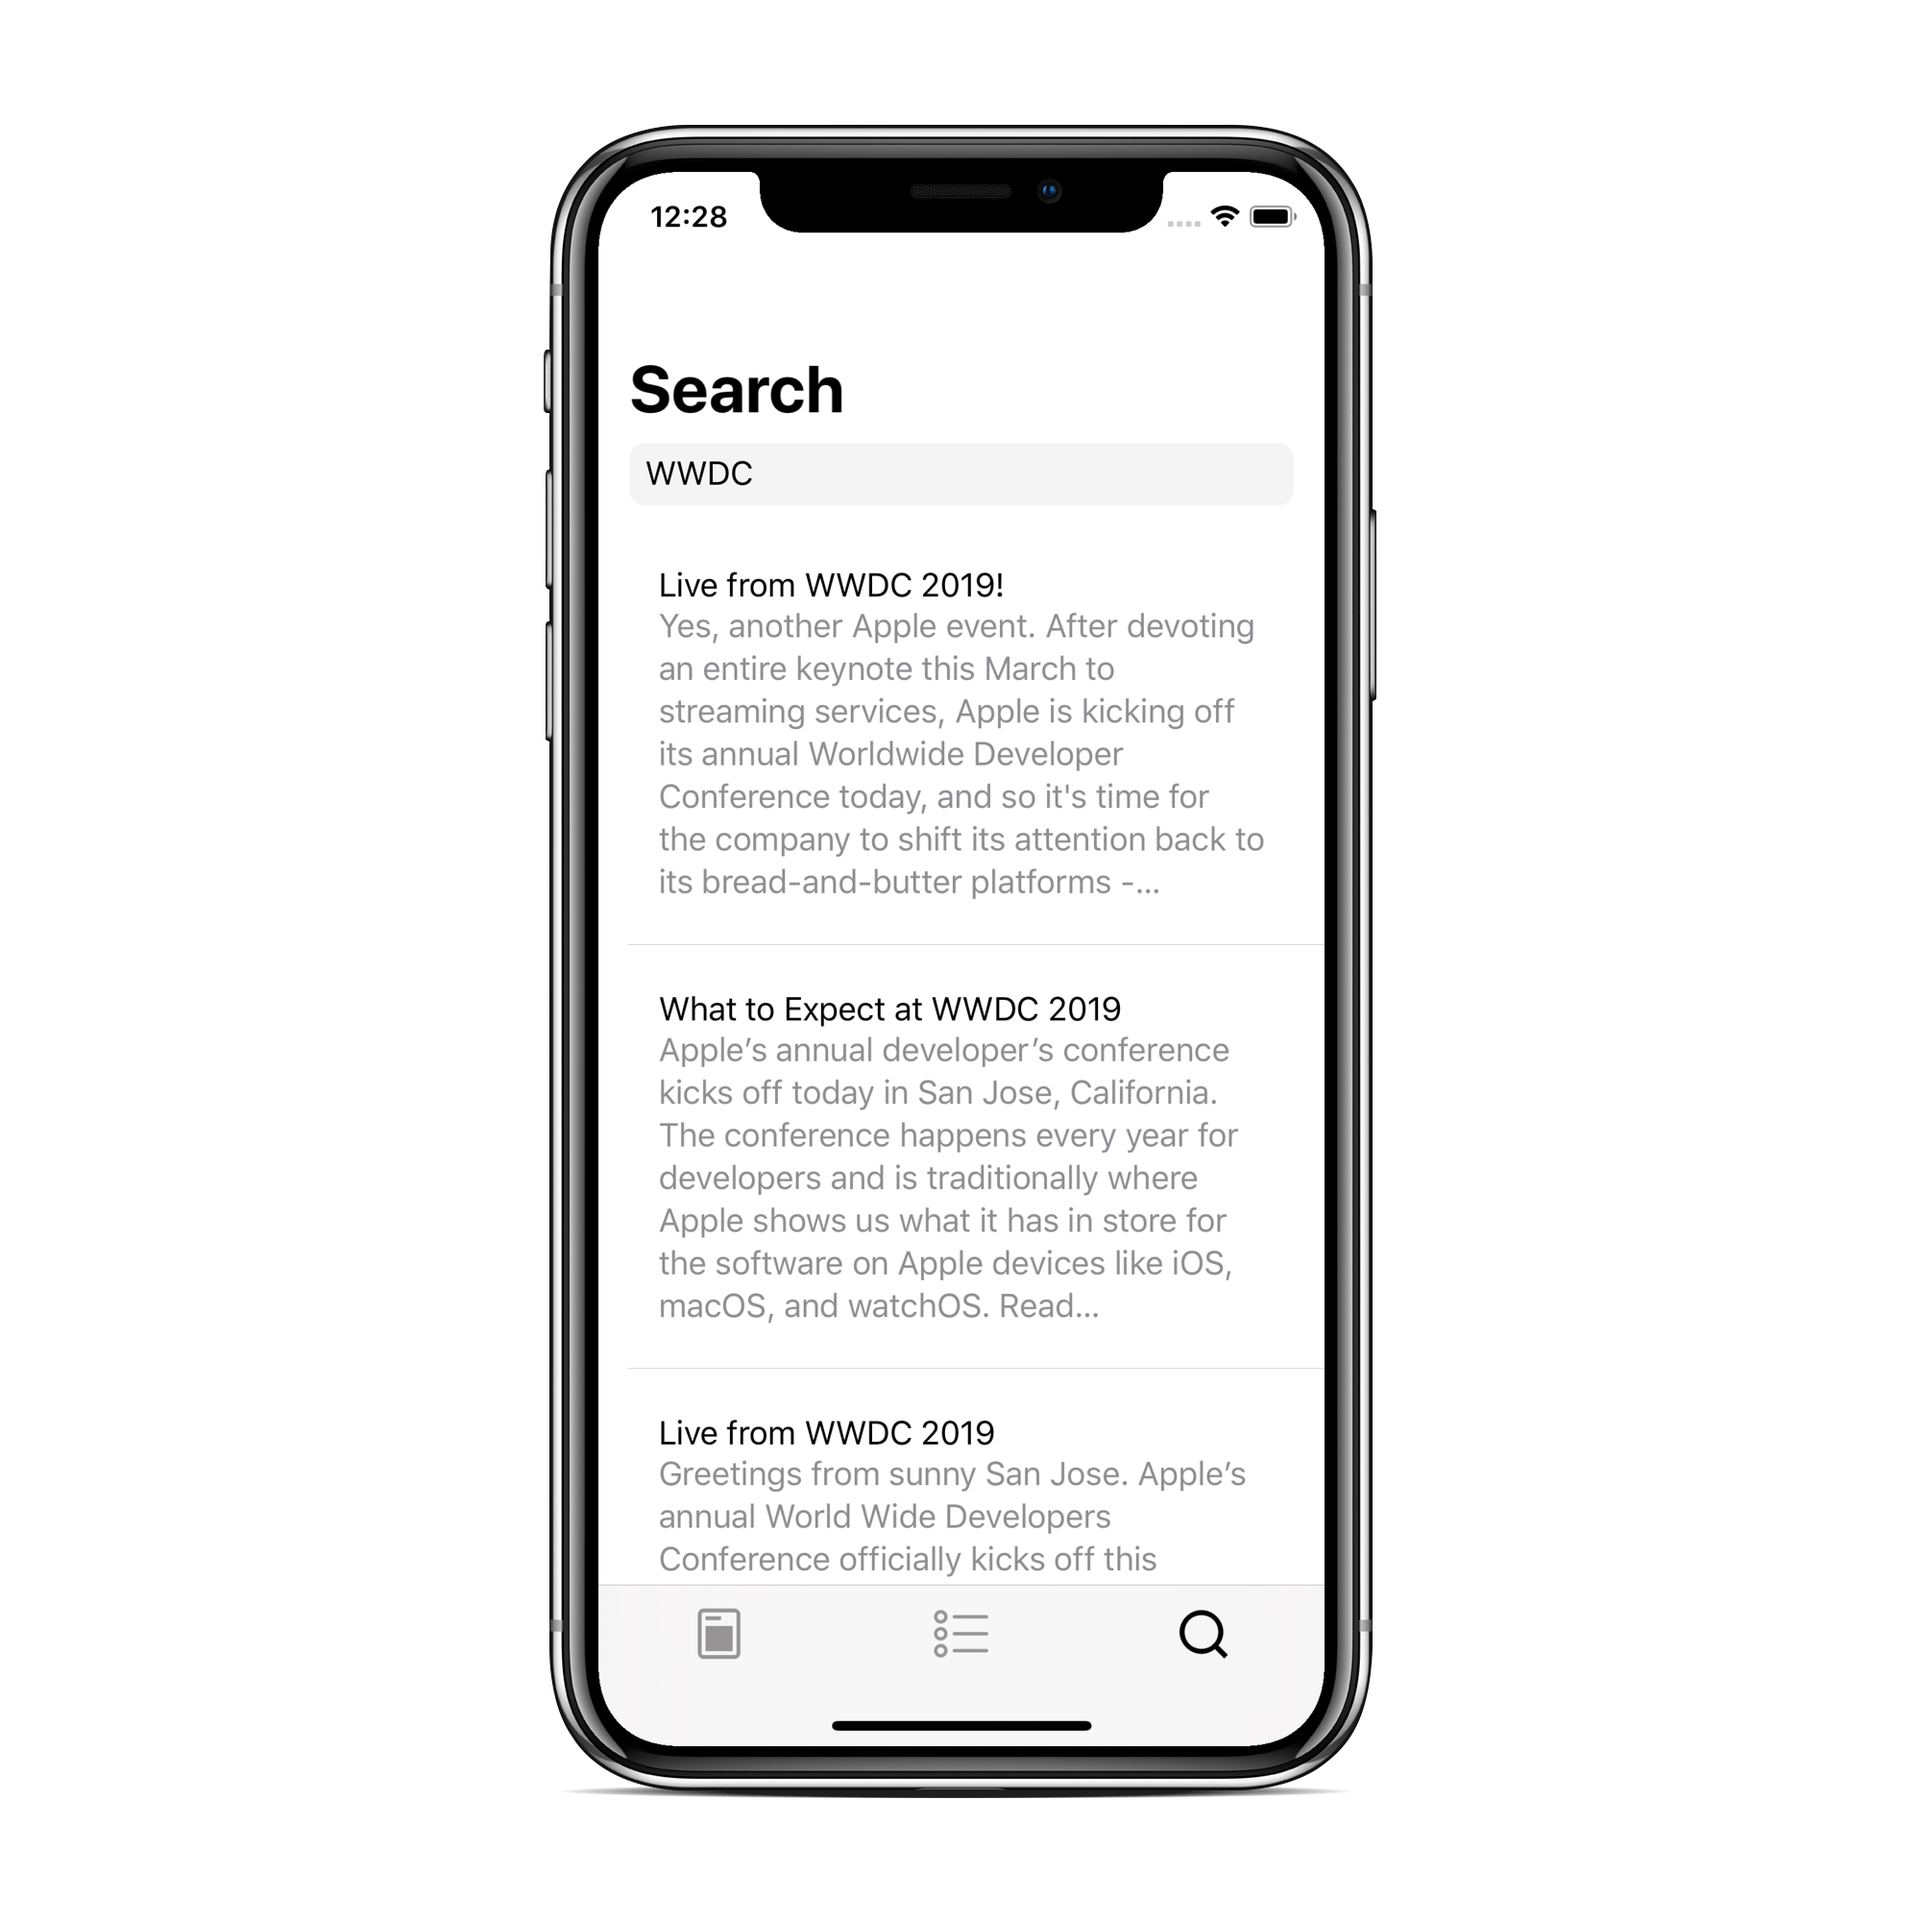
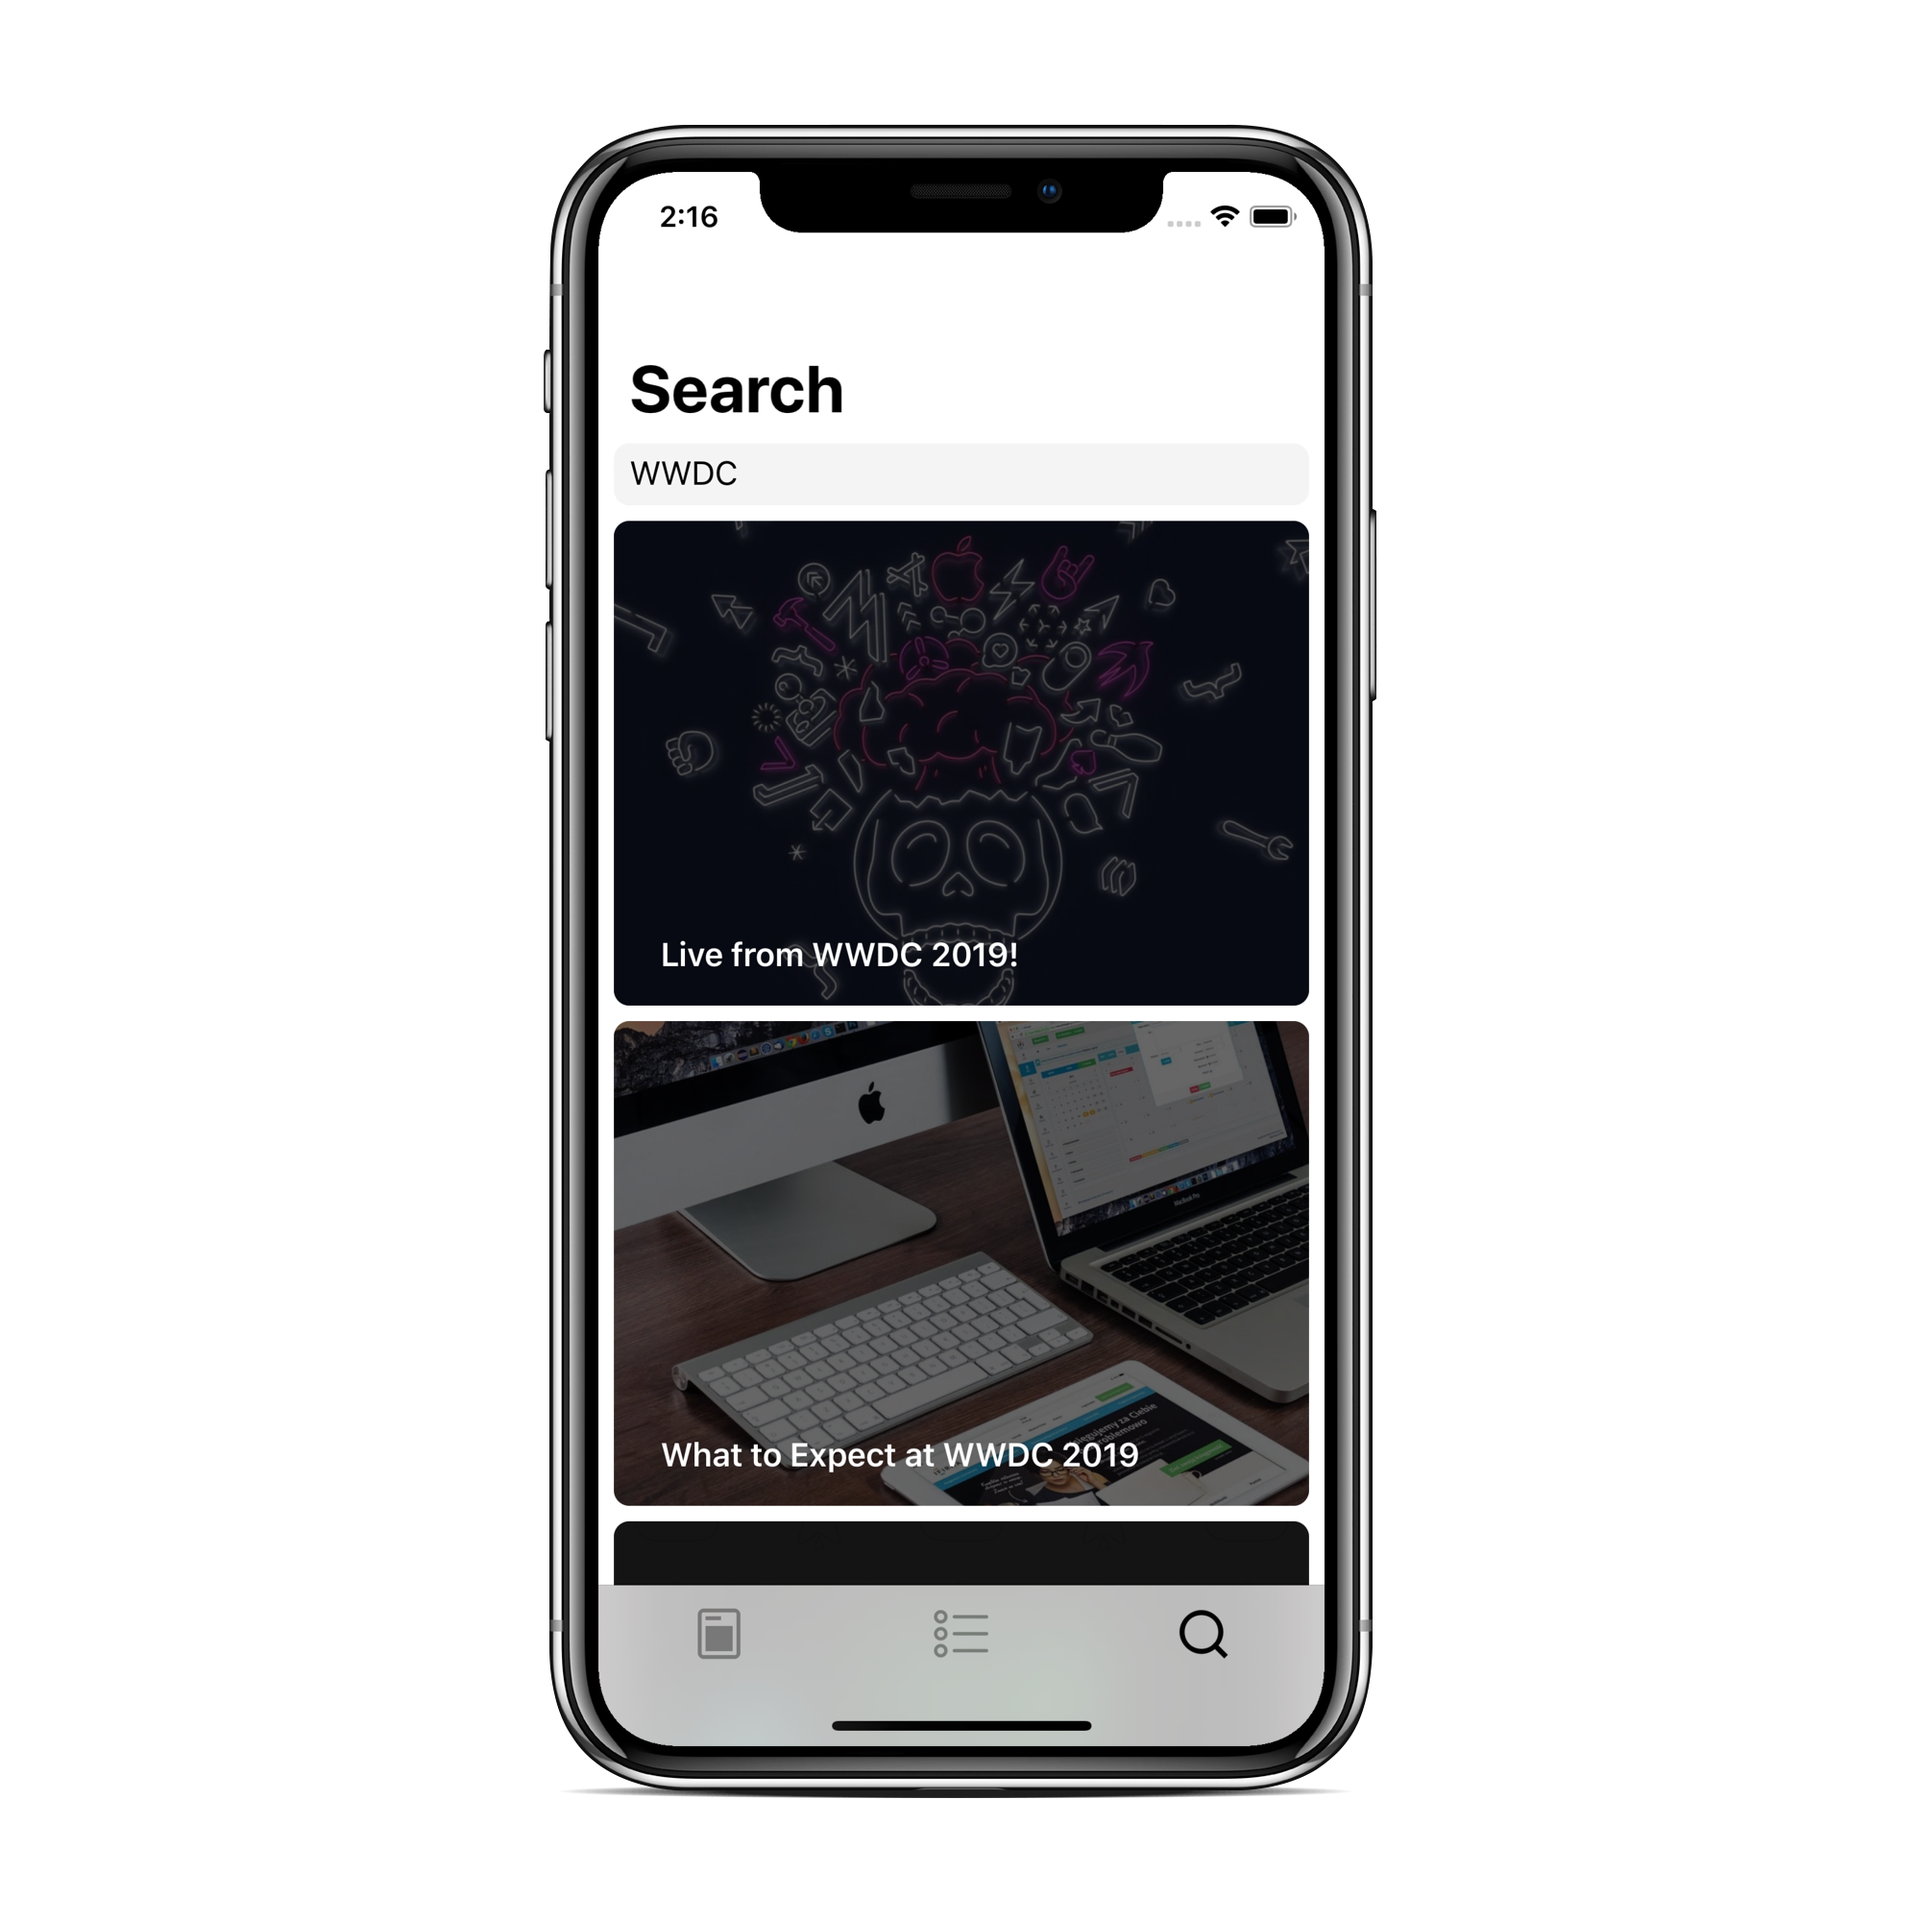
Articles List update

Changed region(s): [[0.31, 0.217, 0.713, 0.93], [0.341, 0.093, 0.372, 0.124]]

diff --git a/NewsApp With SwiftUI Framework/UI/ArticleRow.swift b/NewsApp With SwiftUI Framework/UI/ArticleRow.swift
@@ -9,16 +9,47 @@
 import SwiftUI
 
 struct ArticleRow : View {
+    @State private var headlineImage = UIImage(named: "logo")
+    
+    private let placeholder = UIImage(named: "logo")!
+    
     var article: Article
     
     var body: some View {
-        VStack(alignment: .leading) {
+        ZStack(alignment: .bottom) {
+            Image(uiImage: headlineImage ?? placeholder)
+                .renderingMode(.original)
+                .resizable()
+                .scaledToFill()
+                .onAppear(perform: downloadWebImage)
+                .frame(width: Length(UIScreen.main.bounds.width - 16),
+                       height: Length(250),
+                       alignment: .center)
+            
+            Rectangle()
+                .foregroundColor(.black)
+                .opacity(0.6)
+            
             Text(verbatim: article.title ?? "")
-                .lineLimit(nil)
-            Text(verbatim: article.description ?? "")
-                .color(.gray)
-                .lineLimit(nil)
+                .color(.white)
+                .frame(width: Length(UIScreen.main.bounds.width - 64),
+                       height: 50, alignment: .bottomLeading)
+                .font(.headline)
+                .lineLimit(2)
+                .padding()
         }
-        .padding()
+        .cornerRadius(8)
+        .padding([.leading, .trailing], 8)
+    }
+    
+    private func downloadWebImage() {
+        guard let url = URL(string: article.urlToImage ?? "") else { return }
+        
+        URLSession.shared.dataTask(with: url) { (data, _, error) in
+            if let data = data, let image = UIImage(data: data) {
+                self.headlineImage = image
+            }
+            }
+            .resume()
     }
 }

diff --git a/NewsApp With SwiftUI Framework/UI/ArticlesList.swift b/NewsApp With SwiftUI Framework/UI/ArticlesList.swift
@@ -12,11 +12,13 @@ struct ArticlesList : View {
     var articles: [Article]
     
     var body: some View {
-        List {
-            ForEach(self.articles.identified(by: \.self)) { article in
-                PresentationButton(destination: SafariView(url: article.url)) {
-                    ArticleRow(article: article)
-                        .animation(.spring())
+        ScrollView(showsHorizontalIndicator: false, showsVerticalIndicator: true) {
+            VStack(alignment: .center) {
+                ForEach(self.articles.identified(by: \.self)) { article in
+                    PresentationButton(destination: SafariView(url: article.url)) {
+                        ArticleRow(article: article)
+                            .animation(.spring())
+                    }
                 }
             }
         }

diff --git a/NewsApp With SwiftUI Framework/UI/Search/SearchForArticlesView.swift b/NewsApp With SwiftUI Framework/UI/Search/SearchForArticlesView.swift
@@ -30,7 +30,7 @@ struct SearchForArticlesView : View {
                     .frame(height: 32)
                     .background(Color.gray.opacity(0.1))
                     .cornerRadius(8)
-                    .padding([.leading, .trailing], 16)
+                    .padding([.leading, .trailing], 8)
             
                 ArticlesList(articles: viewModel.articles)
             }
